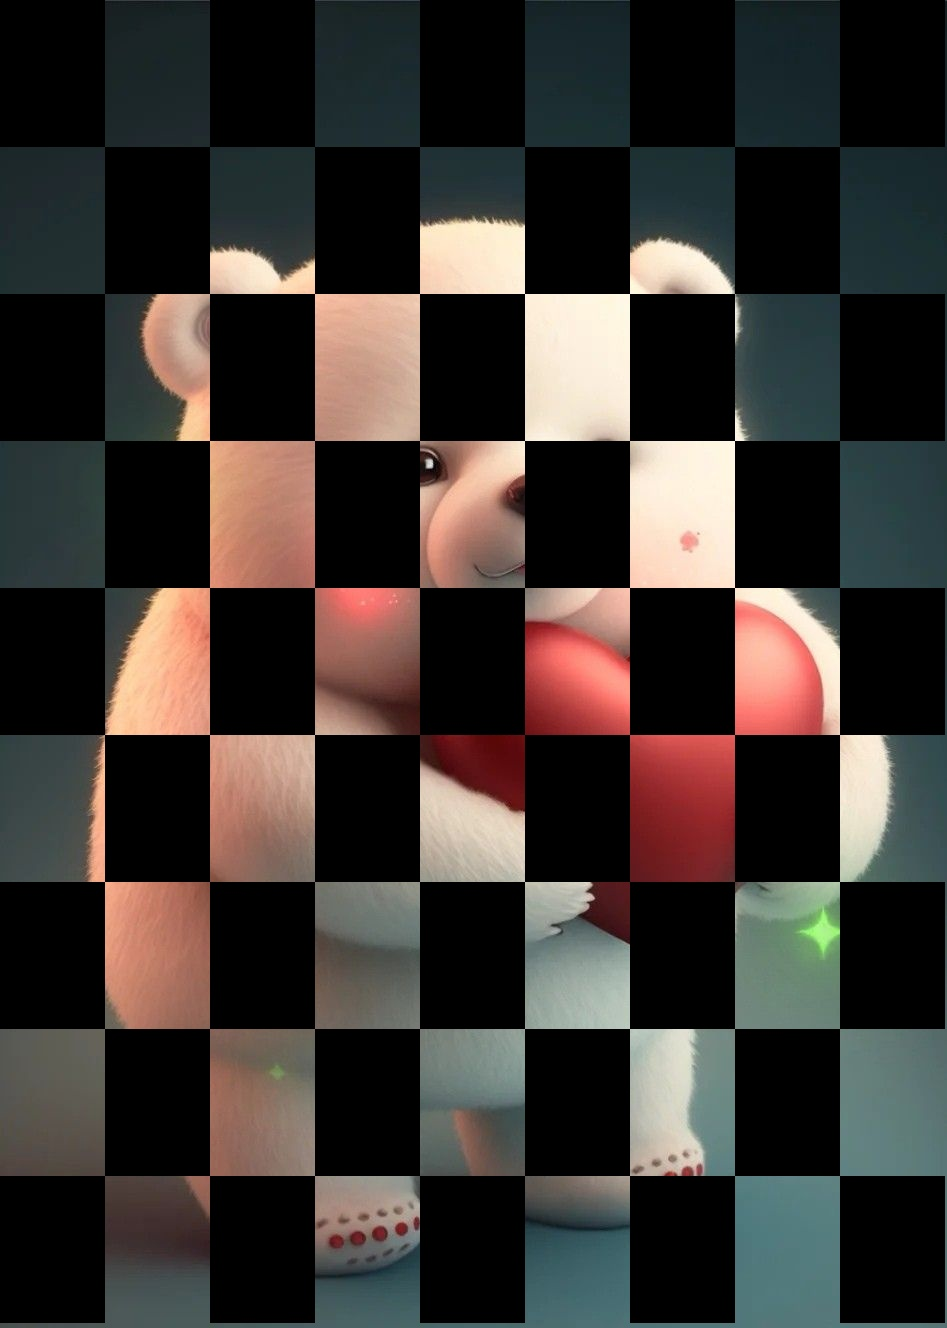
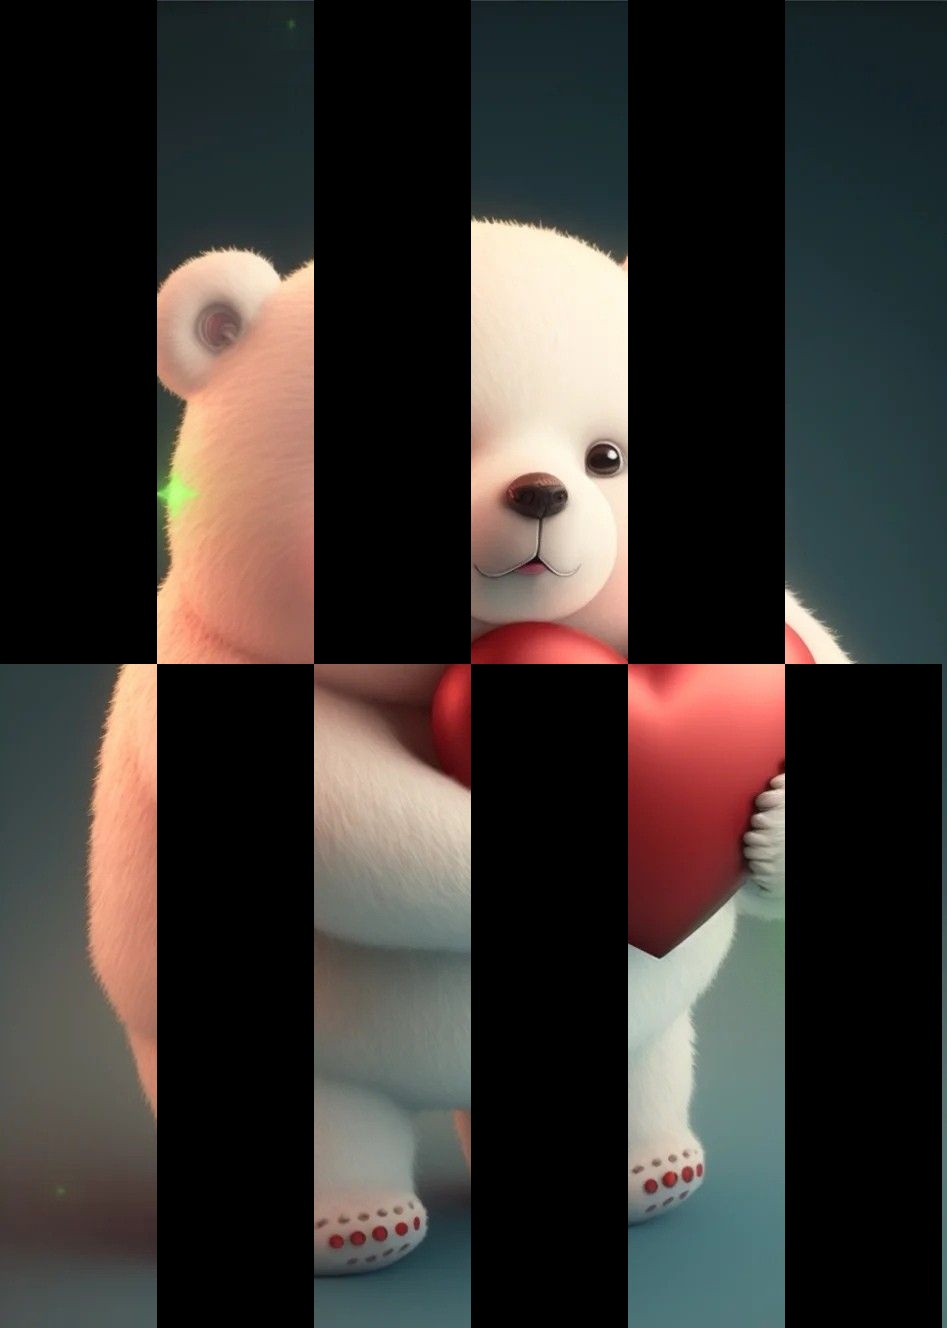
fix some issues

diff --git a/ml1_opencv.py b/ml1_opencv.py
@@ -1,6 +1,7 @@
 import os
 import cv2
 import numpy 
+import random
 from typing import List
 
 current_dir = os.getcwd()
@@ -14,32 +15,39 @@ def get_image_paths(current_dir : str) -> List[str]:
                 image_paths.append(os.path.join(root, file_name))
     return image_paths
 
-def get_modified_image(image_path : str) :
+def get_shahmatka_from_image(image_path : str , divider_h : int = 10, divider_w : int = 6) -> numpy.ndarray :
     is_color_iamge = 1
     image = cv2.imread(image_path, is_color_iamge)
     if is_color_iamge:
         h, w, c = image.shape
     else:
         h, w = image.shape
-    dividers = 9
-    black_h = h // dividers 
-    black_w = w // dividers
+    black_h = h // divider_h
+    black_w = w // divider_w
 
-    black_index = 0
-    for row_index in range(dividers):
-        for col_index in range(dividers):
+    row_starts_with_black = True 
+    for row_index in range(divider_h):
+        if row_starts_with_black:
+            black_index = 0
+        else:
+            black_index = 1
+        for col_index in range(divider_w):
             if black_index % 2 == 0:
                 image[
                     row_index * black_h : (row_index + 1) * black_h,
                     col_index * black_w : (col_index + 1) * black_w
                 ] *= 0
             black_index += 1
+        row_starts_with_black = not row_starts_with_black
     return image
 
 def main():
     image_paths = get_image_paths(os.path.join(current_dir, "test_data"))
     for image_path in image_paths:
+        divider_h = random.randint(2, 10)
+        divider_w = random.randint(2, 10)
         image_name = os.path.basename(image_path)
-        new_image = get_modified_image(image_path)
+        new_image = get_shahmatka_from_image(image_path, divider_h, divider_w)
         cv2.imwrite(os.path.join(current_dir, "out", image_name), new_image)
-main()
+if __name__ == "__main__":
+    main()
